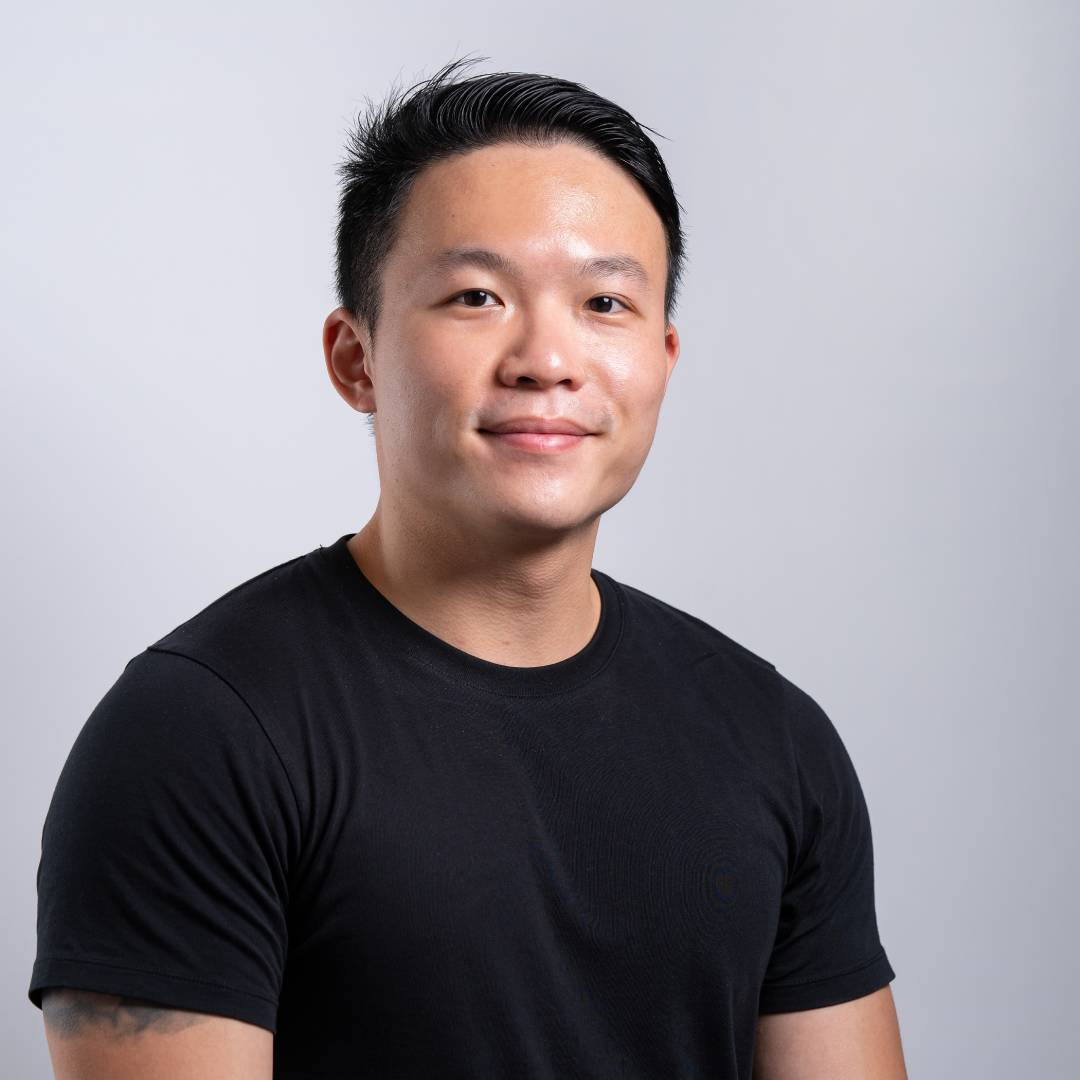
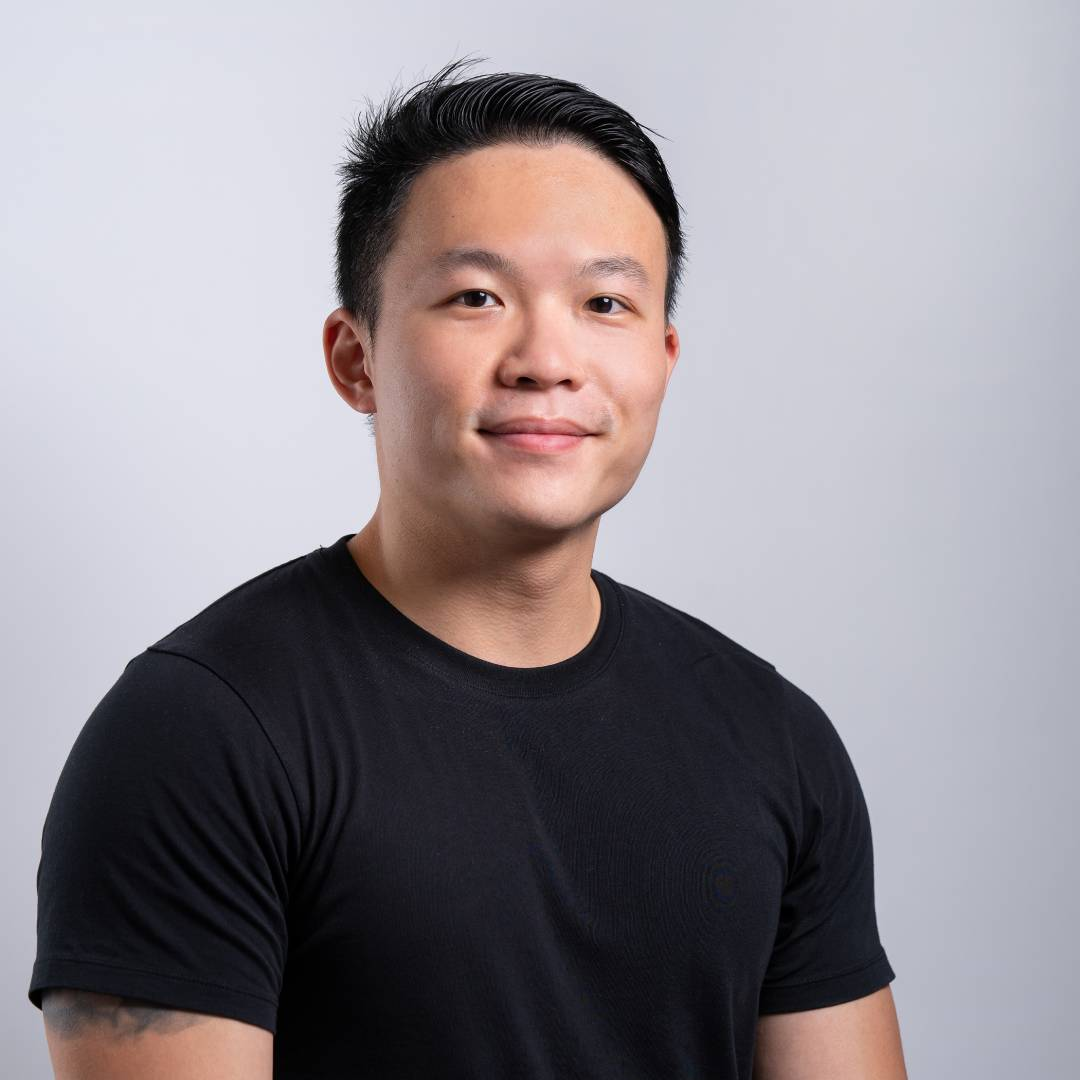
🐒

diff --git a/_site/about/index.html b/_site/about/index.html
@@ -40,13 +40,13 @@
   </header> -->
 
   <div>
-    <div class="section big-text grid grid-d3-m1 tofadein">
+    <div class="section big-text grid grid-d3-m1 tofadein bio">
   <div class="grid-item span-2">
-    <h1>"All input are errors."</h1>
+    <h1 style="margin-top: 0">"All input are errors."</h1>
     <p>Hi, I’m a designer with skills in experience/interface design and front-end development. I enjoy working holistically in the design process: research, product strategy, prototyping, usability testing, interaction, visual, and motion design.</p> 
   </div>
   <div class="grid-item">
-    <img src="/assets/me-4.jpg" class="pp" />
+    <img src="/assets/me-about.jpg" class="pp" />
   </div>
 </div>
 

diff --git a/about.md b/about.md
@@ -6,13 +6,13 @@ index: noindex
 background-color: "#FFF6EF"
 ---
 
-<div class="section big-text grid grid-d3-m1 tofadein">
+<div class="section big-text grid grid-d3-m1 tofadein bio">
   <div class="grid-item span-2">
-    <h1>"All input are errors."</h1>
+    <h1 style="margin-top: 0">"All input are errors."</h1>
     <p>Hi, I’m a designer with skills in experience/interface design and front-end development. I enjoy working holistically in the design process: research, product strategy, prototyping, usability testing, interaction, visual, and motion design.</p> 
   </div>
   <div class="grid-item">
-    <img src="/assets/me-4.jpg" class="pp"/>
+    <img src="/assets/me-about.jpg" class="pp"/>
   </div>
 </div>
 
